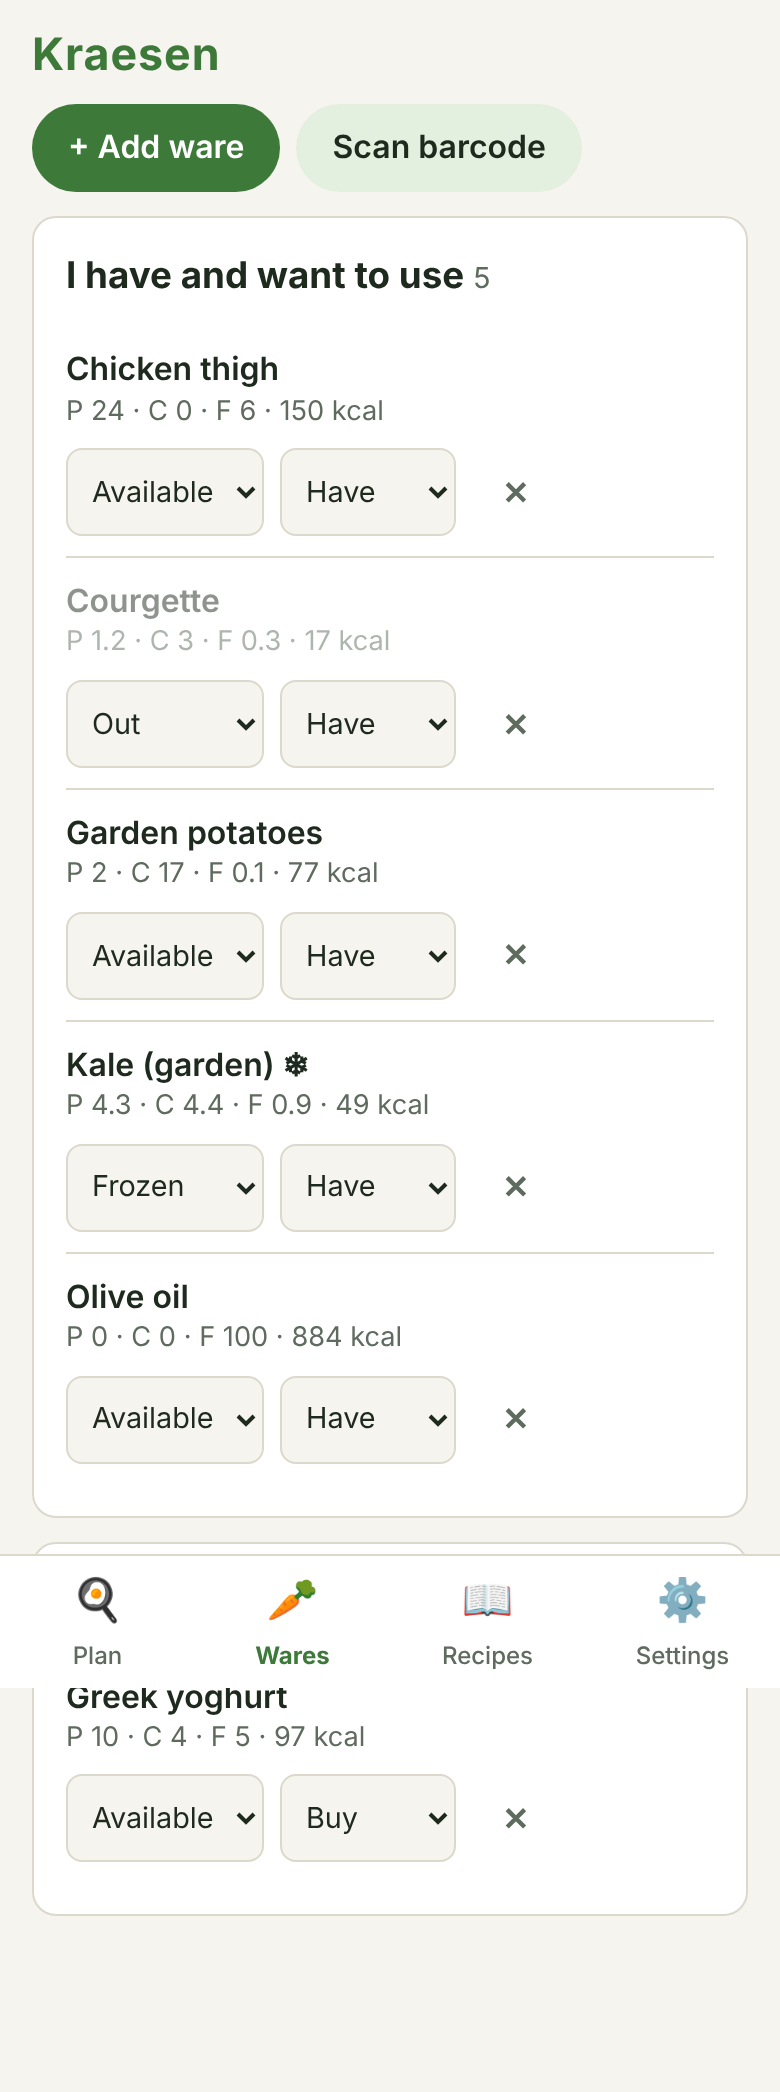
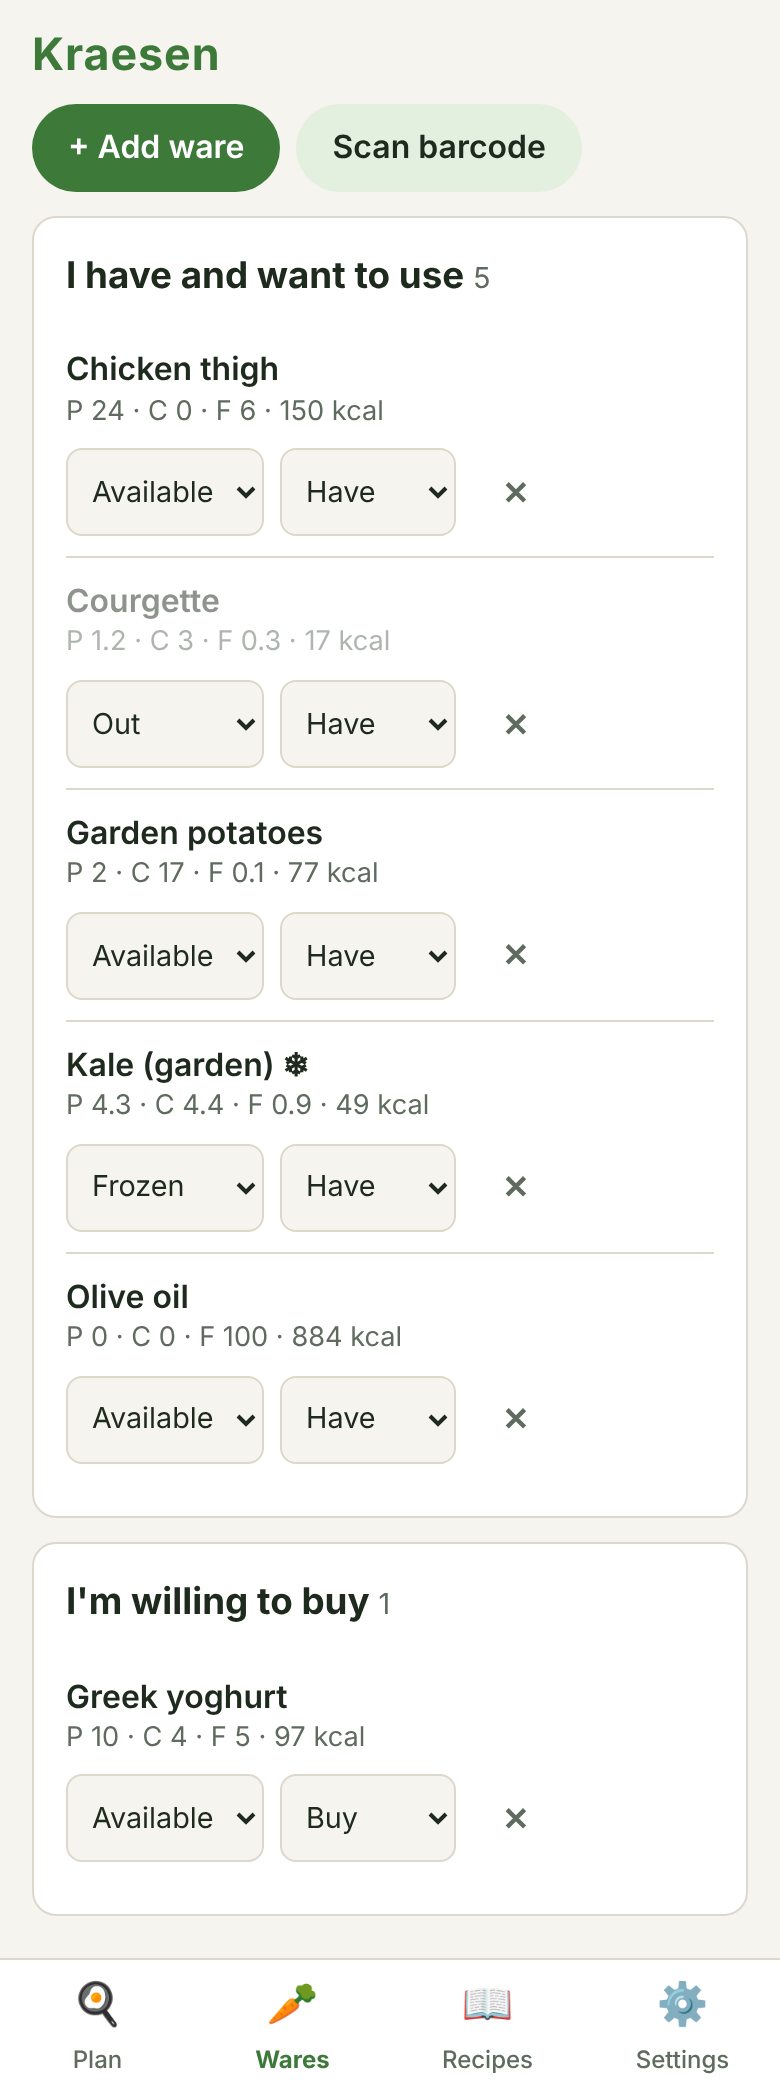
docs: retake tall screenshots; have the design reviewer check PR media
The Wares, Recipe and dark Wares screenshots were full-page captures, which
draw the fixed tab bar at the bottom of the first viewport, over the list.
The app itself is fine. They are now taken with a viewport as tall as the
page. The design reviewer only compared the live app to the description and
never opened the linked images, so it now opens and judges them too.

Claude-Session: https://claude.ai/code/session_01NExJTuMKn94z8RMGD2mQMk

diff --git a/.github/reviewers/ui-design.md b/.github/reviewers/ui-design.md
@@ -9,7 +9,12 @@ http://localhost:4173/ and you drive it with the browser tools
 (`mcp__playwright__*`): navigate, click, type, resize and take screenshots.
 Read the diff only to find which screens the change touches.
 
-1. Read the PR description and look at its screenshots or videos.
+1. Read the PR description, then open every image or video it links in the
+   browser (`browser_navigate` to the URL, then a screenshot) and look at
+   each one. The description is what readers see, so judge its media too:
+   a screenshot that shows something the app does not do (an element in
+   the wrong place, stale text, a capture glitch) is a finding, named in
+   your summary with the file it is in.
 2. Open the app at a phone size (390×844) and walk through every screen
    and flow the diff touches, plus one step before and after it. Take a
    screenshot of each state you judge, saved under `review-screenshots/`
@@ -25,7 +30,7 @@ Read the diff only to find which screens the change touches.
 Judge:
 
 - Does the screen match the PR's screenshots, and does it do what the
-  description says?
+  description says? Where they differ, say which one is wrong.
 - Layout: nothing overlaps, is cut off or scrolls sideways at phone width;
   tap targets are at least 40 px; the bottom tab bar never hides content.
 - Clarity: a first-time user can tell what each screen is for and what to

diff --git a/.github/reviewers/README.md b/.github/reviewers/README.md
@@ -56,5 +56,10 @@ The reviewers run with `claude-code-action` and need the repository secret
 The `PR media` check fails until the PR description has a screenshot or a
 video (drag it into the description on GitHub). A PR with nothing to see
 (CI, docs, a refactor) takes the `no-visual-change` label instead.
+
+Do not use a full-page capture (Playwright's `fullPage: true`) for a screen
+with the fixed bottom tab bar: it draws the bar at the bottom of the first
+viewport, over the middle of the page. Make the viewport as tall as the page
+and take a normal screenshot instead.
 - A brief is plain instructions; the workflow already tells every reviewer
   how to read the PR and how to post, so a brief only says what to judge.
